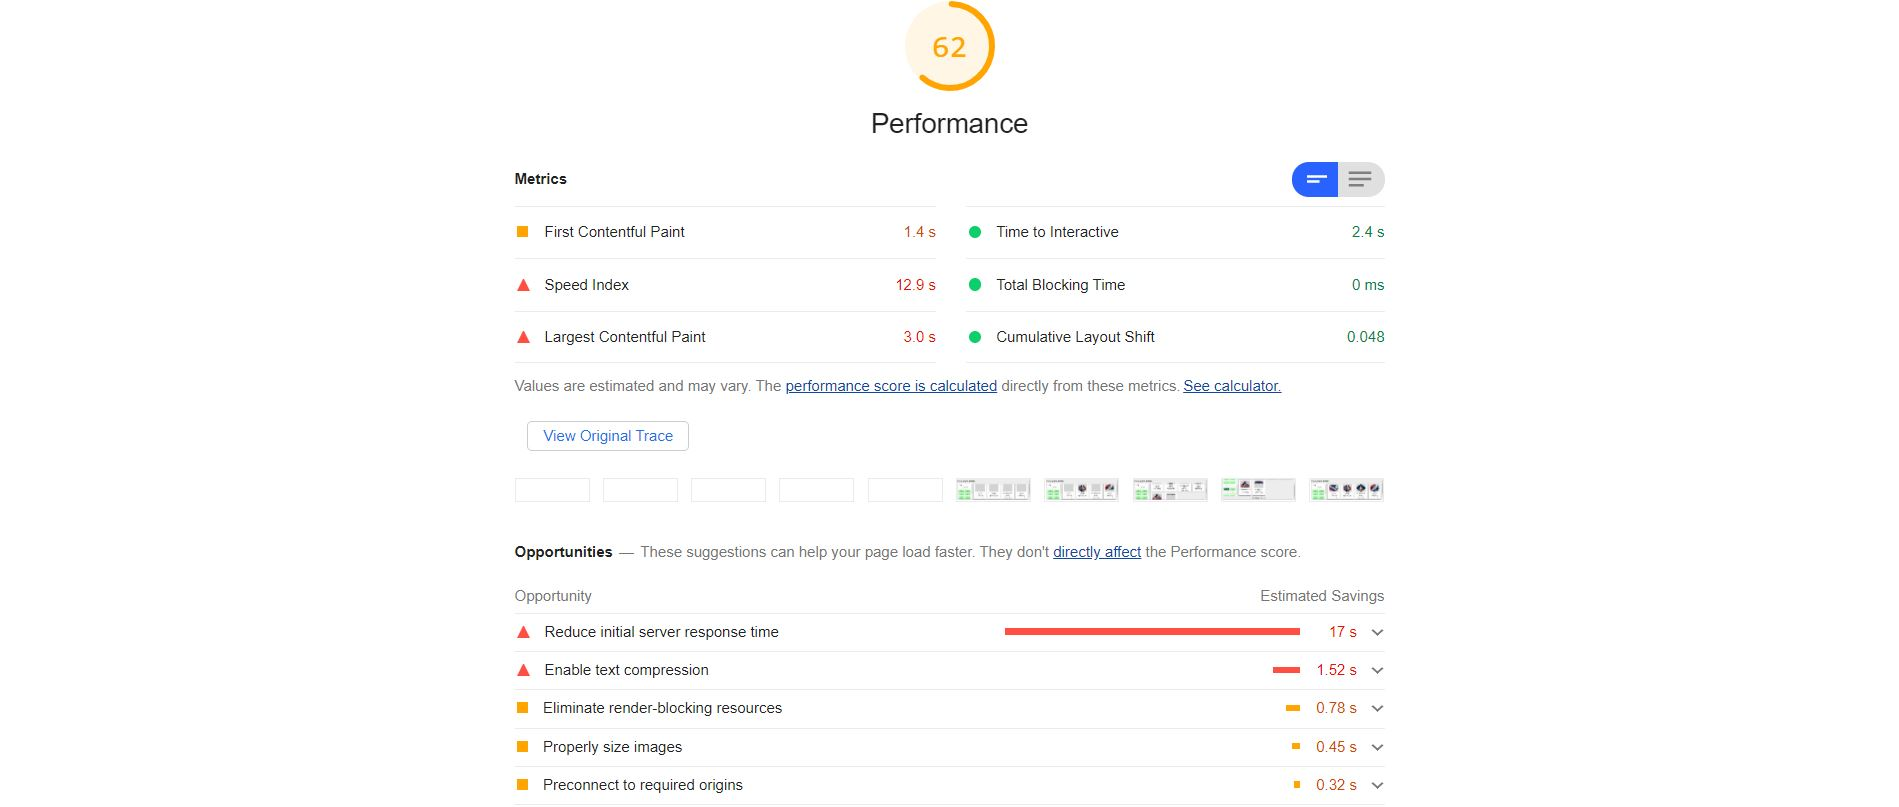
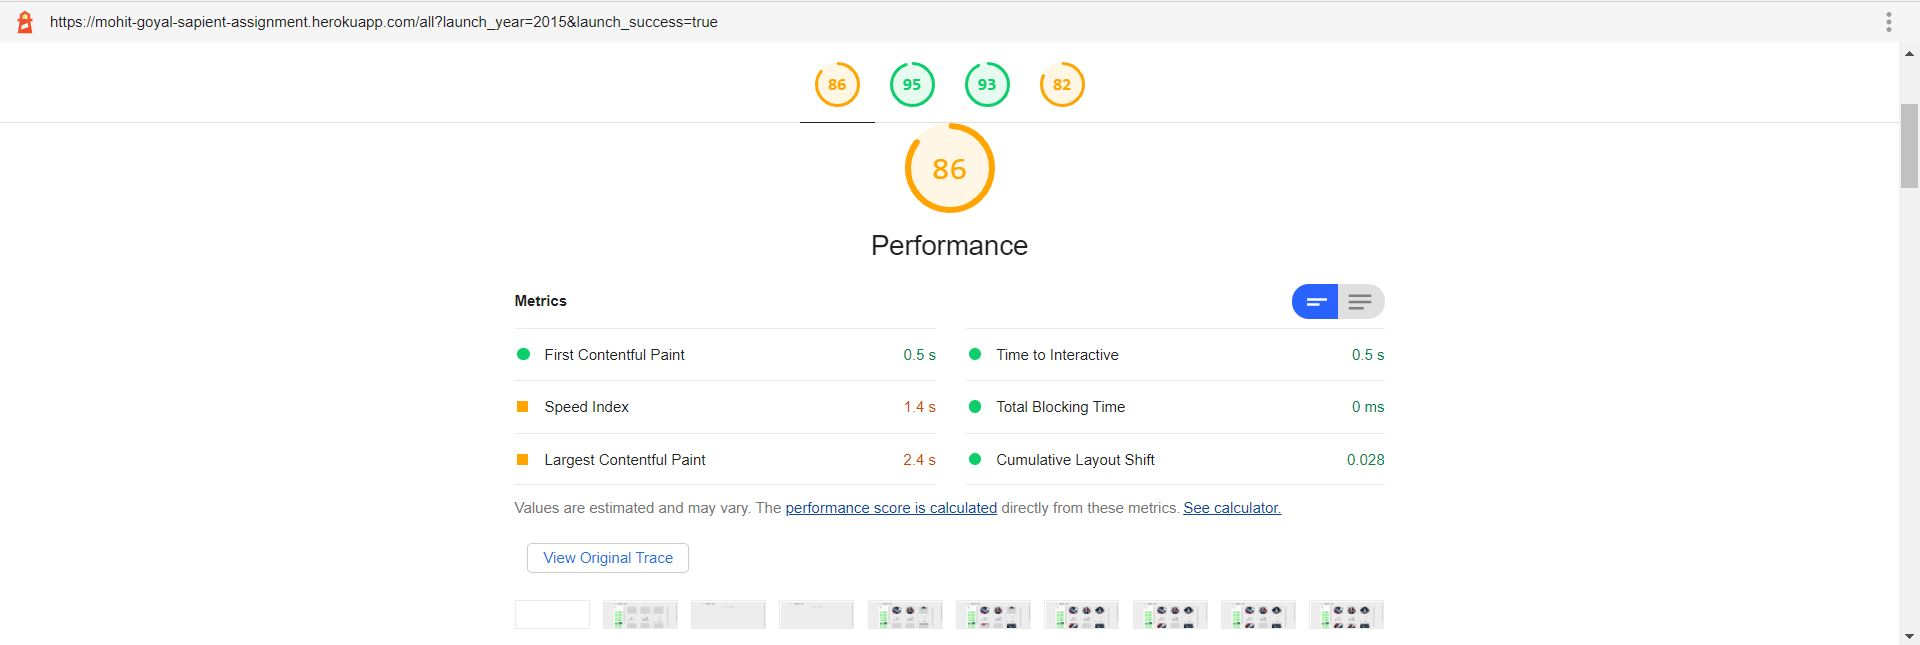
Light House Reports Update

diff --git a/README.md b/README.md
@@ -32,7 +32,7 @@ I have used angular flex and media queries for responsive web design of the appl
 
 ## Performance as shown on Lighthouse of browser dev tools is attached below
 
-![LightHouse with all indexs](https://github.com/mohit4834/sapient-assignment/blob/master/src/assets/performance-images/LightHouse.JPG)
+![LightHouse with all indexs](https://github.com/mohit4834/sapient-assignment/blob/master/src/assets/performance-images/LightHouseReport.JPG)
 ![Accessibility Report](https://github.com/mohit4834/sapient-assignment/blob/master/src/assets/performance-images/Accessibility.JPG)
 ![Performance Report](https://github.com/mohit4834/sapient-assignment/blob/master/src/assets/performance-images/Performance.JPG)
 ![SEO Report](https://github.com/mohit4834/sapient-assignment/blob/master/src/assets/performance-images/SEO.JPG)
